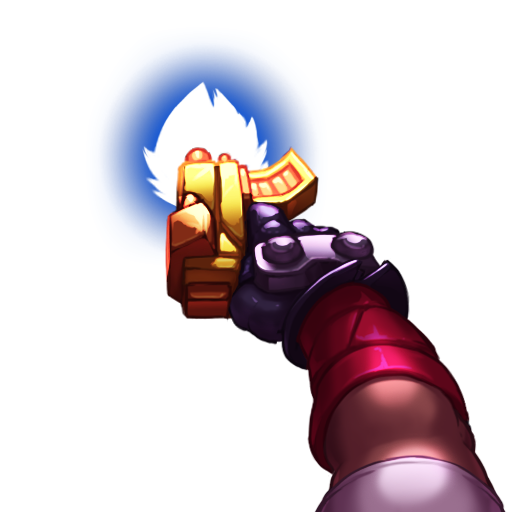
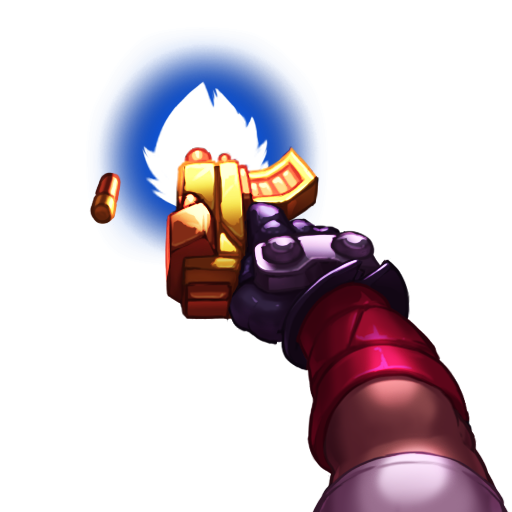
Better gun animation + responsiveness

diff --git a/IrrlichtTraining/12.Damages/Main.cpp b/IrrlichtTraining/12.Damages/Main.cpp
@@ -127,12 +127,12 @@ int main()
 	IMeshSceneNode* ground = smgr->addMeshSceneNode(groundMesh);
 	ground->setMaterialFlag(E_MATERIAL_FLAG::EMF_LIGHTING, false);
 	ground->setMaterialTexture(0, groundTexture);
-	ground->setPosition(vector3df(15.5f, -0.5f, 15.5f));
+	ground->setPosition(vector3df(15.5f, -0.495f, 15.5f));
 
 	IMeshSceneNode* ceiling = smgr->addMeshSceneNode(groundMesh);
 	ceiling->setMaterialFlag(E_MATERIAL_FLAG::EMF_LIGHTING, false);
 	ceiling->setMaterialTexture(0, ceilTexture);
-	ceiling->setPosition(vector3df(15.5f, 0.5f, 15.5f));
+	ceiling->setPosition(vector3df(15.5f, 0.495f, 15.5f));
 	ceiling->setRotation(vector3df(180.0f, 0.0f, 0.0f));
 
 	camera->setNearValue(0.1);
@@ -225,7 +225,7 @@ void draw()
 	driver->beginScene(true, true, SColor(255, 100, 101, 140));
 
 	smgr->drawAll();
-	driver->draw2DImage(gunTextures[gunCurrentFrame], recti(vector2di(490, 420), dimension2di(300, 300)), recti(0, 0, 512, 512), nullptr, nullptr, true);
+	driver->draw2DImage(gunTextures[gunCurrentFrame], recti(vector2di(390, 220), dimension2di(500, 500)), recti(0, 0, 512, 512), nullptr, nullptr, true);
 
 	driver->endScene();
 }

diff --git a/IrrlichtTraining/11.Enemies/CameraAnimator.cpp b/IrrlichtTraining/11.Enemies/CameraAnimator.cpp
@@ -38,13 +38,24 @@ bool CameraAnimator::OnEvent(const SEvent& event)
 		cursorPos = cursorOrigin;
 	}
 
+
 	if (event.MouseInput.isLeftPressed())
 	{
-		leftMouseIsJustPressed = true;
+		if (!leftMouseHasBeenPressed && !leftMouseBufferOn)
+		{
+			leftMouseIsJustPressed = true;
+			leftMouseBufferOn = true;
+		}
+		else
+		{
+			leftMouseIsJustPressed = false;
+		}
+		leftMouseHasBeenPressed = true;
 	}
 	else
 	{
 		leftMouseIsJustPressed = false;
+		leftMouseHasBeenPressed = false;
 	}
 
 	return false;
@@ -124,9 +135,16 @@ bool CameraAnimator::isEventReceiverEnabled()const
 	return true;
 }
 
-const bool CameraAnimator::getLeftMouseIsJustPressed() const
+const bool CameraAnimator::getLeftMouseIsJustPressed()
 {
-	return leftMouseIsJustPressed;
+	bool result = false;
+	if (leftMouseBufferOn)
+	{
+		result = true;
+		leftMouseBufferOn = false;
+	}
+	result = result || leftMouseIsJustPressed;
+	return result;
 }
 
 bool CameraAnimator::isKeyDown(EKEY_CODE keyCode) const

diff --git a/IrrlichtTraining/09.Gun/CameraAnimator.cpp b/IrrlichtTraining/09.Gun/CameraAnimator.cpp
@@ -40,11 +40,21 @@ bool CameraAnimator::OnEvent(const SEvent& event)
 
 	if (event.MouseInput.isLeftPressed())
 	{
-		leftMouseIsJustPressed = true;
+		if (!leftMouseHasBeenPressed && !leftMouseBufferOn)
+		{
+			leftMouseIsJustPressed = true;
+			leftMouseBufferOn = true;
+		}
+		else
+		{
+			leftMouseIsJustPressed = false;
+		}
+		leftMouseHasBeenPressed = true;
 	}
 	else
 	{
 		leftMouseIsJustPressed = false;
+		leftMouseHasBeenPressed = false;
 	}
 
 	return false;
@@ -124,9 +134,16 @@ bool CameraAnimator::isEventReceiverEnabled()const
 	return true;
 }
 
-const bool CameraAnimator::getLeftMouseIsJustPressed() const
+const bool CameraAnimator::getLeftMouseIsJustPressed()
 {
-	return leftMouseIsJustPressed;
+	bool result = false;
+	if (leftMouseBufferOn) 
+	{
+		result = true;
+		leftMouseBufferOn = false;
+	}
+	result = result || leftMouseIsJustPressed;
+	return result;
 }
 
 bool CameraAnimator::isKeyDown(EKEY_CODE keyCode) const

diff --git a/IrrlichtTraining/10.Entities/CameraAnimator.cpp b/IrrlichtTraining/10.Entities/CameraAnimator.cpp
@@ -40,11 +40,21 @@ bool CameraAnimator::OnEvent(const SEvent& event)
 
 	if (event.MouseInput.isLeftPressed())
 	{
-		leftMouseIsJustPressed = true;
+		if (!leftMouseHasBeenPressed && !leftMouseBufferOn)
+		{
+			leftMouseIsJustPressed = true;
+			leftMouseBufferOn = true;
+		}
+		else
+		{
+			leftMouseIsJustPressed = false;
+		}
+		leftMouseHasBeenPressed = true;
 	}
 	else
 	{
 		leftMouseIsJustPressed = false;
+		leftMouseHasBeenPressed = false;
 	}
 
 	return false;
@@ -124,9 +134,16 @@ bool CameraAnimator::isEventReceiverEnabled()const
 	return true;
 }
 
-const bool CameraAnimator::getLeftMouseIsJustPressed() const
+const bool CameraAnimator::getLeftMouseIsJustPressed()
 {
-	return leftMouseIsJustPressed;
+	bool result = false;
+	if (leftMouseBufferOn)
+	{
+		result = true;
+		leftMouseBufferOn = false;
+	}
+	result = result || leftMouseIsJustPressed;
+	return result;
 }
 
 bool CameraAnimator::isKeyDown(EKEY_CODE keyCode) const

diff --git a/IrrlichtTraining/12.Damages/CameraAnimator.cpp b/IrrlichtTraining/12.Damages/CameraAnimator.cpp
@@ -40,9 +40,10 @@ bool CameraAnimator::OnEvent(const SEvent& event)
 
 	if (event.MouseInput.isLeftPressed())
 	{
-		if (!leftMouseHasBeenPressed)
+		if (!leftMouseHasBeenPressed && !leftMouseBufferOn)
 		{
 			leftMouseIsJustPressed = true;
+			leftMouseBufferOn = true;
 		}
 		else
 		{
@@ -133,9 +134,16 @@ bool CameraAnimator::isEventReceiverEnabled()const
 	return true;
 }
 
-const bool CameraAnimator::getLeftMouseIsJustPressed() const
+const bool CameraAnimator::getLeftMouseIsJustPressed()
 {
-	return leftMouseIsJustPressed;
+	bool result = false;
+	if (leftMouseBufferOn)
+	{
+		result = true;
+		leftMouseBufferOn = false;
+	}
+	result = result || leftMouseIsJustPressed;
+	return result;
 }
 
 bool CameraAnimator::isKeyDown(EKEY_CODE keyCode) const

diff --git a/IrrlichtTraining/09.Gun/CameraAnimator.h b/IrrlichtTraining/09.Gun/CameraAnimator.h
@@ -17,7 +17,7 @@ public:
 	virtual ISceneNodeAnimator* createClone(ISceneNode* node, ISceneManager* newManager = 0);
 	virtual bool isEventReceiverEnabled() const;
 
-	const bool getLeftMouseIsJustPressed() const;
+	const bool getLeftMouseIsJustPressed();
 
 private:
 	// This is used to check whether a key is being held down
@@ -28,6 +28,8 @@ private:
 	// We use this array to store the current state of each key
 	bool keyIsDown[KEY_KEY_CODES_COUNT];
 	bool leftMouseIsJustPressed;
+	bool leftMouseHasBeenPressed;
+	bool leftMouseBufferOn;
 
 	IVideoDriver* driver;
 	ICursorControl* cursorControl;

diff --git a/IrrlichtTraining/10.Entities/CameraAnimator.h b/IrrlichtTraining/10.Entities/CameraAnimator.h
@@ -17,7 +17,7 @@ public:
 	virtual ISceneNodeAnimator* createClone(ISceneNode* node, ISceneManager* newManager = 0);
 	virtual bool isEventReceiverEnabled() const;
 
-	const bool getLeftMouseIsJustPressed() const;
+	const bool getLeftMouseIsJustPressed();
 
 private:
 	// This is used to check whether a key is being held down
@@ -28,6 +28,8 @@ private:
 	// We use this array to store the current state of each key
 	bool keyIsDown[KEY_KEY_CODES_COUNT];
 	bool leftMouseIsJustPressed;
+	bool leftMouseHasBeenPressed;
+	bool leftMouseBufferOn;
 
 	IVideoDriver* driver;
 	ICursorControl* cursorControl;

diff --git a/IrrlichtTraining/11.Enemies/CameraAnimator.h b/IrrlichtTraining/11.Enemies/CameraAnimator.h
@@ -17,7 +17,7 @@ public:
 	virtual ISceneNodeAnimator* createClone(ISceneNode* node, ISceneManager* newManager = 0);
 	virtual bool isEventReceiverEnabled() const;
 
-	const bool getLeftMouseIsJustPressed() const;
+	const bool getLeftMouseIsJustPressed();
 
 private:
 	// This is used to check whether a key is being held down
@@ -28,6 +28,8 @@ private:
 	// We use this array to store the current state of each key
 	bool keyIsDown[KEY_KEY_CODES_COUNT];
 	bool leftMouseIsJustPressed;
+	bool leftMouseHasBeenPressed;
+	bool leftMouseBufferOn;
 
 	IVideoDriver* driver;
 	ICursorControl* cursorControl;

diff --git a/IrrlichtTraining/12.Damages/CameraAnimator.h b/IrrlichtTraining/12.Damages/CameraAnimator.h
@@ -17,7 +17,7 @@ public:
 	virtual ISceneNodeAnimator* createClone(ISceneNode* node, ISceneManager* newManager = 0);
 	virtual bool isEventReceiverEnabled() const;
 
-	const bool getLeftMouseIsJustPressed() const;
+	const bool getLeftMouseIsJustPressed();
 
 private:
 	// This is used to check whether a key is being held down
@@ -29,6 +29,7 @@ private:
 	bool keyIsDown[KEY_KEY_CODES_COUNT];
 	bool leftMouseIsJustPressed;
 	bool leftMouseHasBeenPressed;
+	bool leftMouseBufferOn;
 
 	IVideoDriver* driver;
 	ICursorControl* cursorControl;
